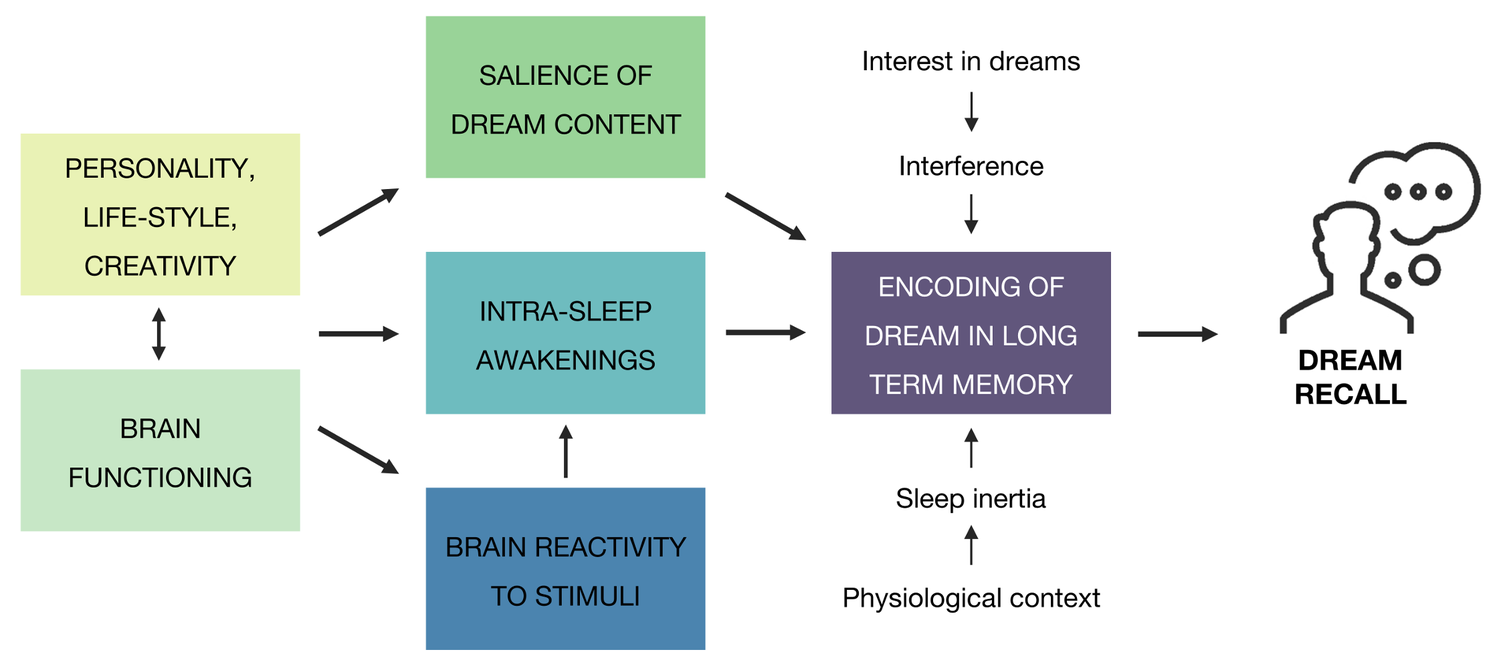
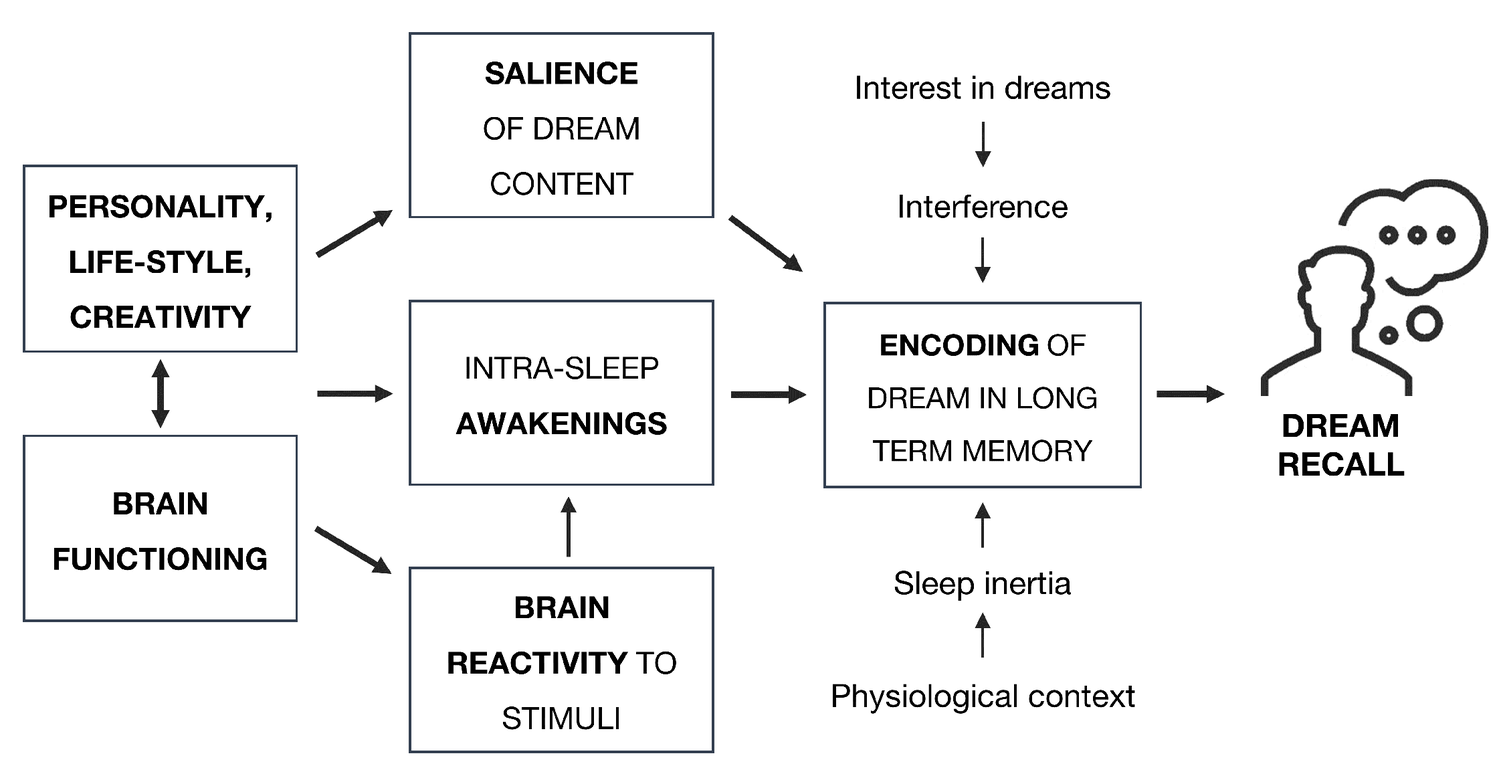
finished discussion DRF

diff --git a/content/discussion.tex b/content/discussion.tex
@@ -5,34 +5,54 @@
 \section{Summary of the results}
 \label{disc:drf:summary}
 
-One of the major objectives of the present thesis was to investigate the neurophysiological and behavioral correlates of inter-individual variability in dream recall frequency (DRF). Based on previous findings, we hypothesized that DRF is associated with a specific brain functioning during both sleep and wakefulness. To test this hypothesis, we compared the brain activity, sleep parameters, cognitive performances and personality traits of individuals who recall dreams almost every day (high dream recallers, HR) and individuals who hardly ever recall one (low dream recallers, LR). The main findings are summarized in Fig \ref{fig:disc:drf:summary}.
+One of the major objectives of the present thesis was to investigate the neurophysiological and behavioral correlates of inter-individual variability in dream recall frequency (DRF). Based on previous findings, we hypothesized that DRF is associated with a specific brain functioning during both sleep and wakefulness. To test this hypothesis, we compared several cognitive, psychological and neurophysiological variables in high and low dream recallers (HR and LR, respectively). The main findings are summarized in Fig \ref{fig:disc:drf:summary}.
 
-In the first study (see section \ref{res:arousal}), we performed an in-depth investigation of the sleep macro and micro-structure of HR and LR by re-analyzing the polysomnographic recordings of  \citet{eichenlaub_brain_2014}. The analysis included arousals (i.e. short awakenings lasting at least 3 sec, and scored independently of the sleep stages), spindles, K-complexes, rapid eye movements and muscle twitches. We did not find any significant between-group differences for any of these parameters. Our interpretation of these findings is that, most probably, sleep microstructural features are not crucial factors to explain DRF variability.
-
-By contrast, we observed that full awakenings (i.e > 15 seconds) were longer, whatever the sleep stages, in HR than in LR (roughly 2 vs 1 min respectively). While the total duration of intra-sleep wakefulness was higher in HR than in LR, it should be noted that the number of intra-sleep awakenings was not different between the two groups. Thus, it appears that the duration of intra-sleep wakefulness during sleep seems to be the best predictor of inter-individual differences in DRF. This result provides yet another evidence in favor of the so-called arousal-retrieval model (see section \ref{sec:dream-recall:theories:arousal}, \citealp{koulack_dream_1976}), which states that a short period of wakefulness must occur immediately after dreaming in order to transfer the dream content from short-term memory to long term memory. Our findings constitute an essential contribution to this model by showing that awakenings must be of sufficient duration to allow successful encoding of dreams into memory. We proposed, in accordance with previous findings \citep{campbell_perception_1981}, that an awakening should last at minimum two minutes to allow for successful memory encoding.
-
-On this point, it should be noted that the author of this thesis contributed to a study aiming at investigating, by means of human intra-cortical EEG, the temporal dynamic of reactivation of brain regions involved in memory processing during arousals (ranging from 3 sec to 2 minutes). Preliminary results (not reported here) showed that the spectral composition of hippocampal EEG signal during these arousals was intermediate between that of sleep and wakefulness activities, and that this activation was modulated by the awakening duration. Furthermore, we showed that hippocampus activity during these arousals was different during NREM and REM sleep, thus providing some evidences about a functional dichotomy between these two sleep stages regarding memorization processes, that could in turn explain the well-known higher dream recall rate following awakening from REM sleep than NREM sleep \citep{nielsen_review_2000}.
-
-The visual scoring of arousals allowed us to address another issue, which is related to the finding of differential brain reactivity to auditory stimuli in high and low dream recallers (see section \ref{sec:dream-recall:param:neuro}). \citet{eichenlaub_brain_2014} has suggested that there might be a causal link between between neurophysiological responses to auditory stimuli (which are larger in HR) and intra-sleep wakefulness during sleep (which is greater in HR). In other words, the amplitude of brain responses to auditory stimuli could be predictive of subsequent awakening or arousal reactions, an observation that has been previously reported for nociceptive stimuli \citet{bastuji_laser_2008}. To test this hypothesis, we computed the auditory evoked potentials to arousing stimuli (i.e. inducing either an arousal or awakening) or non-arousing stimuli (i.e. stimuli that do not induce a disruption of the PSG signal). This comparison was not possible without the tedious and time-consuming visual scoring of arousals given that arousals are far more frequent than awakenings in a normal night of sleep, and are therefore needed to compute reliable and statistically valid evoked potentials.
-
-Consistent with our hypothesis, we have shown that brain responses to auditory stimuli, in N2 sleep, were larger when followed by a subsequent arousing reaction. Importantly, this increase in the amplitude of the brain responses seemed to be stimulus-specific given that the amplitude was larger when arousing reactions were within 5 seconds after the stimulus compared to when they were between 5 and 15 seconds. Behaviorally, HR elicited a significantly greater proportion of stimuli followed by an arousing reaction than LR. Although it was not possible to compute between-group comparisons of the evoked potentials (because of a too few number of subjects in each group with sufficient arousing stimuli), these findings are significant because they provide the missing link between the greater brain reactivity observed in HR and the increased intra-sleep wakefulness during sleep.
-
-\begin{figure}[!htbp]
+\begin{figure}[!htb]
 	\includegraphics[width=\textwidth]{Fig/Discussion/HR_recap.png}
 	\caption[Summary of the results on DRF]{Summary of the behavioral and neurophysiological differences observed between high and low dream recallers.}
 	\label{fig:disc:drf:summary}
 \end{figure}
 
-\FloatBarrier
+\subsection{Intra-sleep awakening duration is a critical factor to explain DRF variability}
+\label{disc:drf:summary:arousals}
 
-\section{A model of dream recall}
+In Study 1, we performed an in-depth investigation of the sleep macro and micro-structure of HR and LR by re-analyzing the polysomnographic recordings of  \citet{eichenlaub_brain_2014}. First, we did not find any significant between-group differences in any of the sleep microstructural features considered (e.g. arousals, spindles, K-complexes, REMs). Our interpretation of these findings is that, most probably, sleep microstructural features are not crucial factors to explain DRF variability.
+By contrast, we observed that full awakenings (i.e > 15 seconds) were longer in all sleep stages in HR as compared to LR (roughly 2 vs 1 min respectively). Noteworthy, the number of awakenings was not different between the two groups.
+
+These observations led us to propose that the duration of intra-sleep wakefulness seems to be one of the most critical predictor of inter-individual differences in DRF. This result provides a strong evidence in favor of the arousal-retrieval model (see section \ref{sec:dream-recall:theories:arousal}, \citealp{koulack_dream_1976}), which states that a short period of wakefulness has to occur immediately after dreaming in order to transfer the dream content from short to long term memory. Our findings constitute an essential contribution to this model by showing that awakenings must be of sufficient duration to allow successful encoding of dreams into memory. We proposed, in accordance with previous findings \citep{campbell_perception_1981}, that two minutes of wakefulness might be a threshold duration for the successful encoding of dreams into long-term memory.
+
+On this point, it should be noted that the author of the present thesis contributed to an ongoing study aiming at investigating, by means of human intra-cortical EEG, the temporal dynamic of reactivation of brain regions involved in memory processing during arousals (ranging from 3 sec to 2 minutes). Preliminary results showed that the spectral composition of hippocampal EEG signal during these arousals was intermediate between that of sleep and wakefulness activities, and that this activation was modulated by the awakening duration. Furthermore, we observed that hippocampus activity during these arousals was different during NREM and REM sleep, a finding particularly relevant considering the well-known dichotomy between these two sleep stages with regards to dream recall and, more broadly, memorization processes \citep{nielsen_review_2000, conduit_poor_2004}.
+
+The visual scoring of arousals allowed us to address another issue, which is related to the finding of differential brain reactivity to auditory stimuli in high and low dream recallers (see section \ref{sec:dream-recall:param:neuro}). \citet{eichenlaub_brain_2014} has suggested that there might be a causal link between between neurophysiological responses to auditory stimuli (which are larger in HR) and intra-sleep wakefulness during sleep (which is greater in HR). In other words, the amplitude of brain responses to auditory stimuli could be predictive of subsequent awakening or arousal reactions, an observation that has been previously reported for nociceptive stimuli \citet{bastuji_laser_2008}. To test this hypothesis, we computed the auditory evoked potentials to arousing stimuli (i.e. inducing either an arousal or awakening) or non-arousing stimuli (i.e. stimuli that do not induce a disruption of the PSG signal). This comparison was not possible without the tedious and time-consuming visual scoring of arousals, given that arousals are far more frequent than awakenings in a normal night of sleep and are therefore needed to compute reliable and statistically valid evoked potentials. Consistent with our hypothesis, we have shown that brain responses to auditory stimuli, in N2 sleep, were larger when followed by a subsequent arousing reaction. Importantly, this increase in the amplitude of the brain responses seemed to be stimulus-specific given that the amplitude was larger when arousing reactions were within 5 seconds after the stimulus compared to when they were between 5 and 15 seconds. Although it was not possible to compare the brain responses to arousing stimuli between HR and LR (because too few subjects in each group had a sufficient number of arousing stimuli), behavioral results show that HR elicited a significantly greater proportion of stimuli followed by an arousing reaction than LR.
+
+In sum, our findings argue for the existence of a causal link between intra-sleep awakening and the brain reactivity to stimuli during sleep. As compared to LR, a greater brain reactivity during sleep in HR could promote intra-sleep awakening which could in turn promote dream recall. Our hypothesis is that if these awakenings are of sufficient duration to allow for the reactivation of the memory encoding abilities of the hippocampus, then the dream content will be successfully encoded into long-term memory (i.e. successful dream recall). This hypothesis led us to address the broad issue of how the brain awakens from sleep, and specifically whether there are differences in this awakening process between HR and LR, an issue that we will discuss in the following section.
+
+
+\subsection{The brain functional connectivity at awakening predicts DRF}
+\label{disc:drf:summary:inertia}
+
+In Study 2, we tested the hypothesis of a differential sleep inertia between HR and LR. To this aim, we designed an EEG-fMRI sleep study to compare specifically the brain functional connectivity and cognitive performances of these two groups following awakening from a daytime nap. To our knowledge, this was the first study to experimentally test the relationship between sleep inertia and DRF.
+
+While we were not able to evidence behavioral between-group differences in sleep inertia (discussed in section \ref{res:inertia:drf:discussion}), our results shed light on a differential brain functional organization associated with DRF in the minutes following awakening from sleep. We found that at 5 min-post-awakening, HR exhibited a greater functional connectivity within the default mode network and regions involved in memory retrieval, such as the medial prefrontal cortex (MPFC), the precuneus, the left medial temporal lobe (MTL) and the left dorsolateral prefrontal cortex (DLPFC). Remarkably, these are almost exactly the same regions found to be involved in episodic memory encoding and retrieval (reviewed in \citealp{spaniol_event-related_2009}). Our interpretation of these results is that the higher functional connectivity in mnemonic brain regions observed in HR could facilitate in these participants the retrieval of dream content. Inversely, LR could fail to recall their dreams because of greater functional connectivity alterations during the first minutes following awakening. More broadly, our results argue in favor of a differential functional awakening process between HR and LR that could explain inter-group differences in dream recall.
+
+\subsection{Higher creativity and default network functional connectivity in HR}
+\label{disc:drf:summary:dmn}
+
+There is a rising consensus that dreaming, or at least dream recall, could be underlain by regions of the default mode network (DMN). In Study 3, we re-analyzed the fMRI data of Study 2 to specifically investigate the relationship between DRF and the DMN. Our results show that, during rest and compared to LR, HR exhibit a higher functional connectivity within the DMN (1) in average and (2) specifically between the MPFC and TPJ. These results are remarkably consistent with previous ones showing a higher rCBF in HR between these two same regions during sleep and wakefulness \citep{eichenlaub_resting_2014}, and a cessation of dream reporting following focal lesions in these brain areas \citep{solms_neuropsychology_1997}. Based on all these observations, one can reasonably argue that the TPJ and the MPFC are two critical regions when it comes to the ability to recall dreams. The question remains pending whether these regions are only involved in dream recall during wakefulness, or also in the production of dreams during sleep. It would be premature to answer that question given that we still have no other means than awakening the participants to test whether he or she was dreaming before.
+
+The second goal of this study was to compare the cognitive abilities (e.g. memory, creativity) and personality traits of HR and LR. We found that HR scored higher than LR on measures of creative-idea generation, without any further between group differences in memory or cognitive abilities. Regarding personality traits, we found that HR tended to score higher on several big five dimensions such as neuroticism, agreeableness and openness-to-experience. These differences were however not significant. This could be due, in part, to the number of participants (n=55), which despite being considerable for a typical neuroimaging study (especially involving simultaneous EEG-fMRI recordings), is rather low for behaviorally assessing subtle differences in personality traits (e.g. n=981 in \citealp{hartmann_boundaries_1989}). The finding of a higher creativity in HR than in LR, which has already been reported in several studies \citep{fitch_variations_1989, schredl_creativity_1995, schredl_factors_2003}, is particularly interesting given that creative-thinking has also been associated with a preferential recruitment of the DMN \citep{ellamil_evaluative_2012, jung_structure_2013, beaty_creativity_2014, mok_interplay_2014, beaty_default_2015, christoff_mind-wandering_2016}. As such, these findings are consistent with the emerging view that creative-thinking and dreaming share some phenomenological and neurophysiological properties \citep{christoff_mind-wandering_2016}.
+
+Altogether, these results argue in favor of Schonbar's life-style hypothesis \citeyearpar{schonbar_differential_1965}, which claims that high or low DRF can be explained by the \q{life-style} (among which are creative-thinking abilities and personality traits) of individuals. Extending this assumption, we propose that this life-style component is also reflected in neurophysiological variables, and notably in the DMN functional connectivity. As we will discuss later, the question remains to whether there is a causal link between all these variables, and notably whether personality traits and life-style of one individuals can significantly influence and modify the brain neurophysiological functioning.
+
+\section{A comprehensive model of dream recall}
 \label{disc:drf:model}
 
-The results of the current thesis as well as those from previous works led us to propose a comprehensive and unified theory of dream recall, depicted in Fig \ref{fig:disc:drf:model}. The main assumption of this model is that dream recall hinges on the successful encoding of the dream short-term memory into a more stable long-term memory, which is only possible upon awakening from sleep.
+How can we combine the above findings on DRF variability to the previously existing knowledge on dream recall?
+The results of the present thesis led us to propose a comprehensive model of dream recall, depicted in Fig \ref{fig:disc:drf:model}.
 
-The period following awakening from sleep is therefore critical in the successful encoding of the dream memory trace. This period is influenced on one side by state-factors such as the severity of sleep inertia, which is related to the physiological context (e.g. prior sleep stage and duration), and on the other side by traits factors such as the interest in dreams, which would result in a stronger focus on dream content immediately upon awakening and therefore less interferences within the encoding process. In more simple terms, it might be that individuals with a positive attitude toward their dreams may recall them better trough a voluntarily memory effort, while individuals with little or no interest towards their dreams may not do any effort to grasp the ephemeral dream memory. However this factor does not explain the full inter-individual variability in DRF given that even when awakened and asked to recall their dreams in controlled laboratory conditions, LR still reports less dream than HR \citep{eichenlaub_brain_2014, eichenlaub_resting_2014}.
+The main assumption of this model is that successful dream recall requires the encoding, during the sleep-wake transition, of the dream short-term memory into a more stable long-term memory. As proposed by \citet{koulack_dream_1976} and since then confirmed in numerous studies, this process is not possible during sleep but only during wakefulness. Consistent with this, we reported earlier that DRF is positively associated with intra-sleep wakefulness, and notably with the duration of awakenings. This observation led us to propose that intra-sleep awakenings must be of sufficient duration to allow the reactivation of the memory encoding abilities of the brain. Furthermore, according to our model, the period following awakening from sleep is influenced on one side by the severity of sleep inertia, which is directly related to the physiological context (e.g. prior sleep stage, depth and duration), and on the other side by traits factors such as the interest in dreams, which may result in a stronger focus on dream content immediately upon awakening, and therefore less interferences in the encoding process. However, these variables affecting the encoding process does not explain the full inter-individual variability in DRF given that even when awakened and asked to recall their dreams in controlled laboratory conditions, LR still reports less dream than HR \citep{eichenlaub_brain_2014, eichenlaub_resting_2014}.
 
-Another crucial factor of this model in the process of dream recall relates to the salience of the dream content, i.e. the more salient a dream is (e.g. a vivid, bizarre, and highly emotional dream), the more likely it will be recalled. This idea was first proposed by \citet{cohen_test_1974} and received further support from studies showing that bizarreness  and emotionality enhance dream recall \citep{cipolli_bizarreness_1993, schredl_emotions_1998}.
+Consequently, another factor that we believe play a crucial role is the salience of the dream content. This idea that was first proposed by \citet{cohen_test_1974} and received further support from studies showing that bizarreness and emotionality enhance dream recall \citep{cipolli_bizarreness_1993, schredl_emotions_1998}. In other words, the more salient a dream is (e.g. vivid, bizarre, emotionally intense), the more likely it will be recalled.  At a lower level, our model incorporates Schonbar's life-style hypothesis \citeyearpar{schonbar_differential_1965} to postulate that all these processes (e.g. salience, interference, sleep inertia) are influenced by the life-style, personality traits and cognitive abilities of the dreamer. One of the key finding of the present thesis is that these differential cognitive and personality profile between high and low dream recallers are also associated with a specific brain functional organization, notably in the default mode network. According to our model, this specific neurophysiological profile could promote in HR some cognitive abilities such as creativity, which would in turn increase the salience of dream content and promote intra-sleep awakenings. These two factors, associated in HR with reduced brain functional alterations and interferences upon awakening, could facilitate the encoding of dreams and result in an increased dream recall frequency.
 
 %%%%%% SEE BLAGROVE PACE SCHOTT 2010
 
@@ -78,7 +98,7 @@ With this in mind, we are currently working on two distinct automatic sleep scor
 
 \begin{figure}[htb]
 	\includegraphics[width=\textwidth]{Fig/Discussion/autoscore.png}
-	\caption[Preliminary results of the automatic sleep scoring algorithm]{\textbf{Preliminary results of the automatic sleep scoring algorithm.} The algorithm is based on a combination of spectral features extraction (Top) and automatic detection of microstructural features (e.g. spindles, blue dots).Preliminary tests on a full night PSG recording obtained on a healthy individual, using a single central derivation (C3), showed a percentage of concordance between the predicted and the manually scored hypnogram superior to 80\% (with a running time inferior to 5 seconds).}
+	\caption[Preliminary results of the automatic sleep scoring algorithm]{\textbf{Preliminary results of the automatic sleep scoring algorithm.} The algorithm is based on a combination of spectral features extraction (Top) and automatic detection of microstructural features (e.g. spindles, blue dots). Preliminary tests on a full night PSG recording obtained on a healthy individual, using a single central derivation (C3), showed a percentage of concordance between the predicted and the manually scored hypnogram superior to 80\% (with a running time inferior to 5 seconds).}
 	\label{fig:disc:methods:future:autoscore}
 \end{figure}
 

diff --git a/content/results-2.2-drf.tex b/content/results-2.2-drf.tex
@@ -129,7 +129,7 @@ The results of functional connectivity contrasts between HR and LR in the three 
 
 This study is the first to compare the brain functional connectivity and cognitive performances of high and low dream recallers in the minutes following awakening from sleep, in an effort to understand the basis for these individual differences in dream recall. The main findings are the followings. First, as expected significantly more HR reported a dream upon awakening than LR. Second, compared to LR, the brain functional connectivity of HR at 5 min post-awakening was significantly increased in several regions that all have in common to be involved in memory processes. Third, the arithmetic performances of both HR and LR were significantly impaired at 5 min post-awakening compared to pre-nap and 25 min post awakening, but no between group differences was observed. The significance of these findings is discussed below.
 
-Between-group contrasts of the functional connectivity at 5 min post-awakening revealed a pattern of enhanced connectivity in HR within the DMN (namely the precuneus, medial prefrontal cortex and left medial temporal lobe) and between the DMN and the left DLPFC. Remarkably, all these regions have been associated with memory processes . In a meta-analysis of the brain areas associated with episodic encoding and retrieval, \citet{spaniol_event-related_2009} reported that the largest clusters associated with retrieval success were located in the precuneus, the anterior prefrontal cortex, the left DLPFC and, to a lesser extent, the middle temporal gyrus. These are almost exactly the same regions found to be more functionally connected in HR than LR during the first minutes following awakening.
+Between-group contrasts of the functional connectivity at 5 min post-awakening revealed a pattern of enhanced connectivity in HR within the DMN (namely the precuneus, medial prefrontal cortex and left medial temporal lobe) and between the DMN and the left DLPFC. Remarkably, all these regions have been associated with memory processes. In a meta-analysis of the brain areas associated with episodic encoding and retrieval, \citet{spaniol_event-related_2009} reported that the largest clusters associated with retrieval success were located in the precuneus, the anterior prefrontal cortex, the left DLPFC and, to a lesser extent, the middle temporal gyrus. These are almost exactly the same regions found to be more functionally connected in HR than LR during the first minutes following awakening.
 
 Based on these findings, one may conclude that HR were deliberately involved in memory retrieval during the resting-state scans, hence an increase functional connectivity in these specific regions. This hypothesis is however unlikely given that subjects were asked to remember the content of their dreams only during the interval between the 5 min and 25 min post-awakening scans. Moreover, only 5 subjects (4 HR) reported that they were actively trying to recall the content of their dreams during the 5 min post-awakening scan.  Another possible interpretation is that these results reflect neurophysiological trait differences rather than strategy/task differences between HR and LR. This interpretation is supported by previous results showing, in HR, increased brain responses to auditory stimuli during wakefulness and sleep \citep{eichenlaub_brain_2014}, and increased regional cerebral blood flow in the MPFC and TPJ, also during sleep and wakefulness \citep{eichenlaub_resting_2014}. Since it is generally admitted that sleep inertia interferes with memory retrieval on awakening rather than memory consolidation \citep{bonnet_memory_1983, dinges_are_1990, tassi_sleep_2000, conduit_poor_2004}, the findings of the present study support the hypothesis of a differential brain functional organization upon awakening between HR and LR.  Specifically, increased functional connectivity between regions involved in memory retrieval would facilitate dream recall in HR, while decreased connectivity in those same regions would prevent successful dream recall in LR. These results suggest that the difference in DRF between HR and LR is not the result of a differential production of dreams, but rather of a differential recall of dreams upon awakening .
 

diff --git a/content/intro-5-problematic.tex b/content/intro-5-problematic.tex
@@ -24,16 +24,14 @@ From this review of the scientific literature on dreaming, it appears that many 
 \begin{my_list_item}
 	\item Why are there such intra- and inter-individual differences in dream recall frequency?
 	\item What are the neurophysiological correlates of dream recall?
-    \item Why more dream reports follow awakening from REM sleep than from NREM sleep?
-	\item Does failure to recall dream upon awakening mean that the sleeper was not dreaming before awakening? Or does this reflect a failure to encode dream content into memory, for example caused by sleep inertia or interference mechanisms?
+    \item Why more dream reports follow awakening from REM sleep than from NREM sleep? Does that mean that the actual \emph{production} of dreams is higher during REM sleep than NREM sleep, or rather than the \emph{recall} of dreams is better following REM sleep?
+	\item More broadly, does failure to recall dream upon awakening mean that the sleeper was not dreaming before awakening? Or does this reflect a failure to encode dream content into memory, for example caused by sleep inertia or interference mechanisms?
 \end{my_list_item}
 
 \textbf{Function of dreaming}
 \begin{my_list_item}
-	\item Do dreaming serves an adaptive function \emph{per se}? If so, do they need to reach consciousness and be remembered in order to be functional?
+	\item Do dreaming serves an adaptive function \emph{per se}? If so, do they need to reach consciousness and be remembered in order to be functional? Or do they need to be worked, or interpreted as believed by many?
 \end{my_list_item}
-
-%Or do they need to be worked, or interpreted as believed by Freud and in many ancient civilizations?
 
 The present thesis aims at contributing to the ongoing effort to solve these questions, by addressing, in parallel and with different paradigms, several aspects of dreaming. First, we investigated the mechanisms of dream recall by comparing the cerebral and behavioral functioning of high and low dream recallers (HR and LR, respectively). In Study 1 (section \ref{sec:problematic:arousals}), we used EEG recordings to compare the sleep macro- and micro-structure of HR and LR, as well as their brain responses to stimuli during sleep. In Study 2 (section \ref{sec:problematic:inertia}), we compared the cognitive performances and brain functional connectivity of HR and LR during sleep inertia using an EEG-fMRI paradigm. In addition with studying the mechanisms of dream recall (sub-study 1), this study was one of the very first to measure, in healthy subject, the brain functional connectivity alterations during sleep inertia (sub-study 2). In Study 3 (section \ref{sec:problematic:dmn-crea}), we further analyzed the data of this EEG-fMRI study to specifically compare the global default mode network functional connectivity in HR and LR, regardless of the effect of sleep inertia. At the same time, we measured, and compared between HR and LR, several cognitive and personality variables. In Study 4 (section \ref{sec:problematic:survey}), we took advantage of the considerable number of responses obtained in the online recruitment survey of this EEG-fMRI study to collect epidemiological data on dream and sleep habits of a large sample of French college students. In Study 5 (section \ref{sec:problematic:wle}), we used dream questionnaires to improve our understanding of the filter that dreaming applies to the waking life memories, and at the same time try to decipher the possible functions of dreaming. Finally, in Study 6 (section \ref{sec:problematic:software}), we leveraged our expertise in sleep analysis to develop a free and open-source software dedicated to the reading, scoring and analysis of sleep data.
 

diff --git a/content/results-3-dmn-crea.tex b/content/results-3-dmn-crea.tex
@@ -3,7 +3,7 @@
 \chapter{Study 3}
 \label{res:dmn-crea}
 
-\textbf{{\large High dream recall frequency predicts increased creativity and default network connectivity}}
+\textbf{{\large High dream recall frequency is associated with increased creativity and functional connectivity in the default mode network}}
 
 \hfill \emph{In preparation}
 
@@ -17,7 +17,7 @@ Raphael Vallat\textsuperscript{1} (PhD candidate), Alain Nicolas\textsuperscript
 
 \subsection*{Summary}
 \label{res:dmn-crea:summary}
-It has long been recognized that the ability to recall dream, as measured by the frequency of dream recall, is positively correlated with psychological factors such as creativity or some personality traits. These findings have recently been invigorated by the emergence of neuroimaging methods that revealed a differential neurophysiological profile between high dream recallers (HR) and low dream recallers (LR). For instance, previous works from our team showed, in HR compared to LR, a higher regional cerebral blood flow within core regions of the default mode network (DMN), not only during sleep but also during wakefulness. These observations are remarkably consistent with the emerging view that dreaming and creative-thinking pertain to the same family of spontaneous mental processes, which could be underpinned by a strong recruitment of the default mode network. To further investigate this idea, the present study aimed at comparing the default mode network resting-state fMRI functional connectivity of HR (n=28) and LR (n=27) during wakefulness, as well as measures of creativity, personality and cognitive abilities. We found, in HR as compared to LR, a greater DMN connectivity, higher scores of creativity, and no significant differences in cognitive or memory abilities. These findings are consistent with the hypothesis according to which the ability to recall dream is part of a general life style, involving higher creativity, and provide the underlying brain mechanism for such inter-individual differences in dream recall frequency.
+Several results suggest that the frequency of dream recall is positively correlated with personality traits such as creativity and openness to experience. These findings are coherent with neuroimaging result showing different neurophysiological profiles in high dream recallers (HR) and low dream recallers (LR).  As compared to LR, a higher regional cerebral blood flow within core regions of the default mode network has been observed in HR during sleep and wakefulness. These observations are consistent with the emerging view that dreaming and mind wandering pertain to the same family of spontaneous mental processes, subserved by the default mode network. To further test this hypothesis, we assessed in HR (n=28) and LR (n=27) the (1) functional connectivity in the default mode network during resting wakefulness using fMRI as well as (2) creative-thinking, personality traits and cognitive abilities. As expected, HR demonstrated a greater DMN connectivity than LR, higher scores of creativity, and no significant difference in cognitive or memory abilities. These results support the forebrain and the DMN hypotheses of dreaming and suggest that increased activity in the DMN promote creative-thinking during both wakefulness and sleep. 
 
 \paragraph{Keywords}
 Dream recall, creativity, resting state, functional connectivity, default mode network

diff --git a/main.tex b/main.tex
@@ -109,7 +109,7 @@
 
 % \input{content/front-garde-fr}			% Page de garde français + composante
 % \cleardoublepage
-
+%
 % \input{content/front-garde-en}			% Title page english
 % \cleardoublepage
 %
@@ -132,24 +132,24 @@
 % \input{content/front-publications} 		% INCLUDE: publications
 % \cleardoublepage
 %
-\makeatletter
-\let\@cftmaketoctitle\relax
-\let\@cftmakeloftitle\relax
-\let\@cftmakelottitle\relax
-\makeatother
+% \makeatletter
+% \let\@cftmaketoctitle\relax
+% \let\@cftmakeloftitle\relax
+% \let\@cftmakelottitle\relax
+% \makeatother
 
 % Table of contents
-\setcounter{tocdepth}{1}		% define depth of toc
-\addchap{Table of contents}
-\vspace*{-10mm}
-\tableofcontents
-\cleardoublepage
-
+% \setcounter{tocdepth}{1}		% define depth of toc
+% \addchap{Table of contents}
+% \vspace*{-10mm}
+% \tableofcontents
+% \cleardoublepage
+%
 % List of figures
-\addchap{List of figures}
-\vspace*{-10mm}
-\listoffigures
-\cleardoublepage
+% \addchap{List of figures}
+% \vspace*{-10mm}
+% \listoffigures
+% \cleardoublepage
 
 % List of tables
 % \addchap{List of tables}
@@ -165,26 +165,26 @@
 \pagestyle{maincontentstyle} 				% fancy header and footer
 
 % \part{GENERAL INTRODUCTION}
-\input{content/intro-1-dream-research}
-\input{content/intro-2-dream-recall}
-\input{content/intro-3-dream-content}
-\input{content/intro-4-dream-function}
-\input{content/intro-5-problematic}
+% \input{content/intro-1-dream-research}
+% \input{content/intro-2-dream-recall}
+% \input{content/intro-3-dream-content}
+% \input{content/intro-4-dream-function}
+% \input{content/intro-5-problematic}
+%
+% \part{METHODS}
+% \input{content/method-1-eeg}
+% \input{content/method-2-fMRI}
 
-\part{METHODS}
-\input{content/method-1-eeg}
-\input{content/method-2-fMRI}
-
-\cleardoublepage
-\part{EXPERIMENTAL RESULTS}
-\input{content/results-1-arousal}
-\input{content/results-2-inertia}
-\input{content/results-3-dmn-crea}
-\input{content/results-4-survey}
-\input{content/results-5-wle}
-\input{content/results-6-software}
-
-\cleardoublepage
+% \cleardoublepage
+% \part{EXPERIMENTAL RESULTS}
+% \input{content/results-1-arousal}
+% \input{content/results-2-inertia}
+% \input{content/results-3-dmn-crea}
+% \input{content/results-4-survey}
+% \input{content/results-5-wle}
+% \input{content/results-6-software}
+%
+% \cleardoublepage
 \part{GENERAL DISCUSSION}
 \input{content/discussion}
 
@@ -193,15 +193,15 @@
 % --------------------------
 % Back matter
 % --------------------------
-% \part{REFERENCES} \cleardoublepage
-% {
-% \setstretch{1.1}
-% \renewcommand{\bibfont}{\normalfont\small}
-% \setlength{\biblabelsep}{0.2pt}
-% \setlength{\bibitemsep}{0.5\baselineskip plus 0.5\baselineskip}
-% \printbibliography[nottype=online, heading=none]
-% }
-%
+\part{REFERENCES} \cleardoublepage
+{
+\setstretch{1.1}
+\renewcommand{\bibfont}{\normalfont\small}
+\setlength{\biblabelsep}{0.2pt}
+\setlength{\bibitemsep}{0.5\baselineskip plus 0.5\baselineskip}
+\printbibliography[nottype=online, heading=none]
+}
+
 % \cleardoublepage
 % \input{content/back-colophon}
 

diff --git a/content/intro-1-dream-research.tex b/content/intro-1-dream-research.tex
@@ -120,7 +120,7 @@ Fervent supporter of the REM sleep hypothesis of dreaming, Allan Hobson argued t
 Based on Solms’s findings, some authors have postulated that instead of relying on REM sleep mechanisms, dreaming might be best described along a continuum of mentation during sleep, ranging from the hypnagogic reveries typical of sleep onset to florid and vivid experiences often reported after awakening from REM sleep \citep{schwartz_dreaming:_2005}. A brief description of the different type of mental activities during sleep is reported in Table \ref{tab:intro:continuum}.
 
 \begin{table}[htb]
-	\caption[A continuum of sleep mentation]{A brief description of sleep mentation in their typical order of placement during the sleep cycle. Modified from \citet{de_koninck_sleep_2012}}
+	\caption[A brief description of sleep mentation in their typical order of placement during the sleep cycle]{A brief description of sleep mentation in their typical order of placement during the sleep cycle. Modified from \citet{de_koninck_sleep_2012}}
 	\label{tab:intro:continuum}
 	\begin{tabularx}{\textwidth}{XXX}
 	\toprule
@@ -157,7 +157,7 @@ Another line of research consists in comparing the pre-awakening sleep EEG spect
 
 \mathversion{bold}
 \begin{table}[!htb]
-	\caption[Pre-awakening EEG spectral power associated with the presence of a dream report.]{\textbf{Review of the studies that investigated the pre-awakening sleep EEG spectral power associated with the presence or absence of a dream report.} {\color[HTML]{FE0000}$\nearrow$} The EEG spectral power is increased in this frequency band when subjects recalled a dream compared to when they did not recall one. {{\color[HTML]{3166FF} $\searrow$}} The EEG spectral power is decreased in this frequency band when subjects recalled a dream compared to when they did not recall one. = There is no EEG spectral power difference between the two conditions. * Higher occipital alpha, decreased frontal alpha. N = number of participants.}
+	\caption[Pre-awakening EEG spectral power associated with dream recall: literature review]{\textbf{Review of the studies that investigated the pre-awakening sleep EEG spectral power associated with the presence or absence of a dream report.} {\color[HTML]{FE0000}$\nearrow$} The EEG spectral power is increased in this frequency band when subjects recalled a dream compared to when they did not recall one. {{\color[HTML]{3166FF} $\searrow$}} The EEG spectral power is decreased in this frequency band when subjects recalled a dream compared to when they did not recall one. = There is no EEG spectral power difference between the two conditions. * Higher occipital alpha, decreased frontal alpha. N = number of participants.}
 	\label{tab:intro:ba-pre}
     \resizebox{\textwidth}{!}{%
     \begin{tabularx}{\textwidth}{Xlllll}

diff --git a/content/intro-2-dream-recall.tex b/content/intro-2-dream-recall.tex
@@ -113,8 +113,7 @@ Cohen further extended his model in the salience hypothesis, which states that t
 \subsection{State-shift hypothesis}
 \label{sec:dream-recall:theories:state}
 
-Extending these arousal-based ideas, \citet{koukkou_dreaming:_1983} proposed the state-shift hypothesis which emphasizes the state dependent effects of dream recall rather than short-term memory effects. According to them, \q{forgetting of dreams is a function of the magnitude of the difference between states during encoding and recall} \citep{koukkou_dreaming:_1983}. Consequently, the closer two functional states are, the better is the transference of information. Thus, according to them, dreams are better recalled when the awake functional state
-is similar to the sleeping functional state. It was argued that such compatibility occurs between wakefulness and REM sleep, enabling better recall of REM dreams. By contrast, the slow EEG frequencies of NREM sleep (and especially N3 sleep) are functionally very different from wakefulness, and this could account for the poorer NREM dream recall.
+Extending these arousal-based ideas, \citet{koukkou_dreaming:_1983} proposed the state-shift hypothesis which emphasizes the state dependent effects of dream recall rather than short-term memory effects. According to them, \q{forgetting of dreams is a function of the magnitude of the difference between states during encoding and recall} \citep{koukkou_dreaming:_1983}. Consequently, the closer two functional states are, the better is the transference of information. Thus, according to them, dreams are better recalled when the awake functional state is similar to the sleeping functional state. It was argued that such compatibility occurs between wakefulness and REM sleep, enabling better recall of REM dreams. By contrast, the slow EEG frequencies of NREM sleep (and especially N3 sleep) are functionally very different from wakefulness, and this could account for the poorer NREM dream recall.
 
 \subsection{Sleep inertia}
 \label{sec:dream-recall:theories:inertia}
